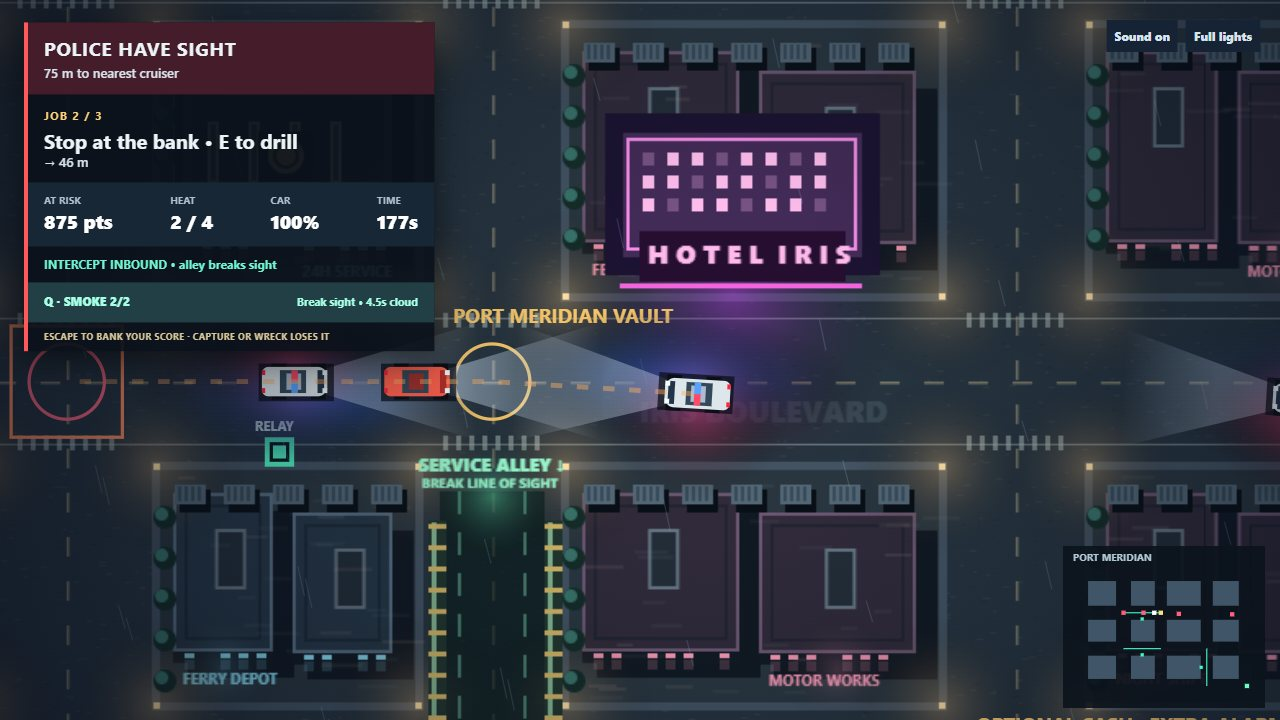
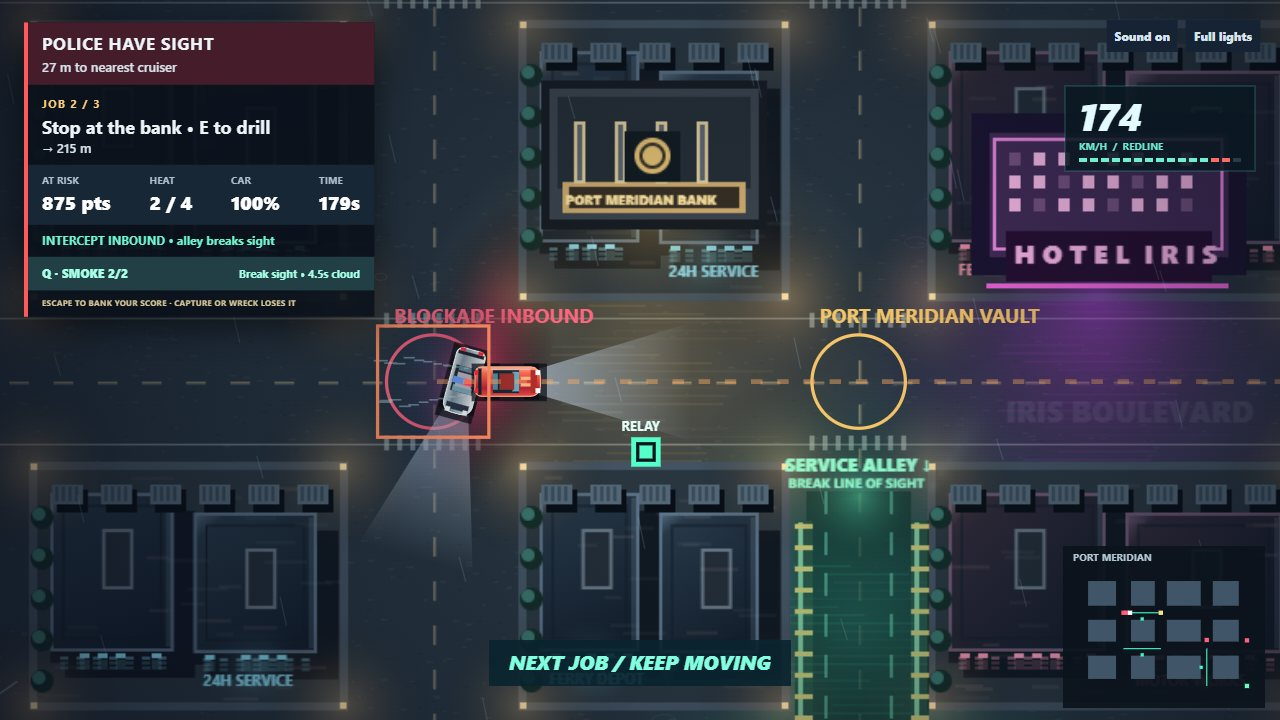
Add wet-city lighting, motion effects and cinematic chase capture

diff --git a/game/src/cinematic.js b/game/src/cinematic.js
@@ -1,0 +1,69 @@
+// Original Canvas effects. Simulation-time animation stays still when paused.
+const Cinematic = (() => {
+  let tracks=[],last=null,runTime=-1,event=null,previousStage=0,previousSmoke=0;
+  function tick(run){
+    if(run.time<runTime){tracks=[];last=null;event=null;previousStage=0;previousSmoke=0;}runTime=run.time;
+    if(run.jobs.stage!==previousStage){event={text:run.jobs.stage===3?'FINAL RUN / REACH THE DOCKS':'NEXT JOB / KEEP MOVING',time:run.time};previousStage=run.jobs.stage;}
+    if((run.smoke?.used||0)>previousSmoke){previousSmoke=run.smoke.used;event={text:'SMOKE DEPLOYED / CHANGE COURSE',time:run.time};}
+    const c=run.car,speed=Math.hypot(c.vx,c.vy);
+    const slip=Math.abs(-c.vx*Math.sin(c.angle)+c.vy*Math.cos(c.angle));
+    if(last&&speed>60&&(c.braking||slip>30)){
+      for(const side of [-1,1])tracks.push({x:last.x-Math.sin(last.angle)*side*8,y:last.y+Math.cos(last.angle)*side*8,
+        tx:c.x-Math.sin(c.angle)*side*8,ty:c.y+Math.cos(c.angle)*side*8,t:run.time});
+    }
+    tracks=tracks.filter(t=>run.time-t.t<7).slice(-420);last={...c};
+  }
+  function streets(ctx,time){
+    ctx.save();
+    ctx.beginPath();ctx.rect(78,81,1268,878);for(const b of City.blocks)ctx.rect(b.x,b.y,b.right-b.x,b.bottom-b.y);ctx.clip('evenodd');
+    // Pools of coloured light break across wet asphalt, never over the roofs.
+    for(const lamp of [{x:840,y:385,c:'213,72,242'},{x:565,y:386,c:'255,193,95'},{x:690,y:545,c:'65,240,191'},{x:1275,y:905,c:'58,185,241'}]){
+      const glow=ctx.createRadialGradient(lamp.x,lamp.y,0,lamp.x,lamp.y,150);
+      glow.addColorStop(0,`rgba(${lamp.c},.24)`);glow.addColorStop(1,`rgba(${lamp.c},0)`);ctx.fillStyle=glow;ctx.fillRect(lamp.x-150,lamp.y-150,300,300);
+      for(let i=0;i<23;i++){const y=lamp.y-33+i*5,x=lamp.x+Math.sin(i*7.13)*25;
+        ctx.fillStyle=`rgba(${lamp.c},${.025+.06*(1+Math.sin(time*.9+i))*0.5})`;ctx.fillRect(x-40,y,35+(i*17)%70,1.5);}
+    }
+    for(const t of tracks){ctx.strokeStyle=`rgba(2,8,15,${.5*(1-(runTime-t.t)/7)})`;ctx.lineWidth=3;ctx.beginPath();ctx.moveTo(t.x,t.y);ctx.lineTo(t.tx,t.ty);ctx.stroke();}
+    for(let i=0;i<30;i++){
+      const x=90+(i*173)%1230,y=100+(i*271)%820,age=(time*.8+i*.37)%1;
+      if(City.wall(x,y,1))continue;
+      ctx.strokeStyle=`rgba(143,208,230,${(1-age)*.16})`;ctx.lineWidth=.7;ctx.beginPath();ctx.ellipse(x,y,age*10+1,age*4+1,0,0,Math.PI*2);ctx.stroke();
+    }
+    ctx.restore();
+  }
+  function steam(ctx,time){
+    ctx.save();
+    for(const vent of [{x:735,y:465},{x:1070,y:680},{x:385,y:185}]){
+      for(let i=0;i<7;i++){const age=(time*.35+i/7)%1,x=vent.x+age*35,y=vent.y-age*55,r=9+age*20;
+        const g=ctx.createRadialGradient(x,y,0,x,y,r);g.addColorStop(0,`rgba(157,199,212,${(1-age)*.1})`);g.addColorStop(1,'transparent');ctx.fillStyle=g;ctx.fillRect(x-r,y-r,r*2,r*2);}
+    }ctx.restore();
+  }
+  function screen(ctx,w,h,run,p,reduced){
+    const speed=Math.hypot(run.car.vx,run.car.vy),strength=Math.max(0,(speed-150)/210);
+    ctx.save();
+    if(!reduced&&strength>0){
+      ctx.lineWidth=1;ctx.strokeStyle=`rgba(166,226,247,${strength*.28})`;
+      for(let i=0;i<28;i++){
+        const a=i*2.399,phase=(run.time*1.7+i*.173)%1,r=.65+phase*.3;
+        const x=w*.5+Math.cos(a)*w*r,y=h*.5+Math.sin(a)*h*r;
+        ctx.beginPath();ctx.moveTo(x,y);ctx.lineTo(x+Math.cos(a)*60*strength,y+Math.sin(a)*45*strength);ctx.stroke();
+      }
+    }
+    const danger=Math.max(p.contact/.87,run.impact>0?run.impact*.65:0);
+    if(danger>.02){const g=ctx.createRadialGradient(w/2,h/2,h*.25,w/2,h/2,w*.65);g.addColorStop(0,'transparent');g.addColorStop(1,`rgba(255,46,62,${Math.min(.45,danger*.5)})`);ctx.fillStyle=g;ctx.fillRect(0,0,w,h);}
+    if(event&&run.time-event.time<2.2){
+      const age=run.time-event.time;ctx.globalAlpha=Math.min(1,age*5,(2.2-age)*3);
+      ctx.font='italic 900 20px system-ui';const width=ctx.measureText(event.text).width;
+      ctx.fillStyle='#09232ee8';ctx.fillRect(w/2-width/2-20,h-80,width+40,46);
+      ctx.fillStyle='#83ffe0';ctx.fillText(event.text,w/2-width/2,h-50);ctx.globalAlpha=1;
+    }
+    // Instrument cluster remains anchored while the city moves.
+    const x=w-215,y=86;
+    ctx.fillStyle='#091821df';ctx.fillRect(x,y,190,85);ctx.strokeStyle='#5ee5d24d';ctx.strokeRect(x,y,190,85);
+    ctx.fillStyle='#e3fbff';ctx.font='italic 900 39px system-ui';ctx.fillText(String(Math.round(speed*.55)).padStart(3,'0'),x+14,y+45);
+    ctx.font='bold 10px system-ui';ctx.fillStyle='#6fe9d2';ctx.fillText('KM/H  /  REDLINE',x+14,y+64);
+    for(let i=0;i<15;i++){ctx.fillStyle=i<speed/360*15?(i>11?'#ff6a65':'#70efd2'):'#273d48';ctx.fillRect(x+14+i*11,y+72,8,4);}
+    ctx.restore();
+  }
+  return {tick,streets,steam,screen};
+})();

diff --git a/game/src/hud.js b/game/src/hud.js
@@ -4,8 +4,8 @@ const ChaseHUD = (() => {
     const jobs = state.jobs, car = state.car;
     const stage = jobs?.stage || 0;
     const objectives = ['Intercept the rolling pickup', 'Stop at the bank • E to drill', 'Match the courier • hold E', 'Reach the dock canopy'];
-    const threat = !state.collected ? 'THE JOB IS ON' : pursuit.seen ? 'POLICE HAVE SIGHT' : 'BREAKING CONTACT';
-    const detail = pursuit.contact > .1 ? `CAPTURE ${Math.min(100,Math.round(pursuit.contact/.87*100))}% • drive away now` : !state.collected ? 'Three jobs. One getaway.' : pursuit.seen ? `${Math.round(pursuit.nearestRange)} m to nearest cruiser` : `Stay hidden ${Math.max(0,Pursuit.clearDuration(state)-pursuit.lost).toFixed(1)} s`;
+    const threat = !state.collected ? 'THE JOB IS ON' : pursuit.seen ? 'POLICE HAVE SIGHT' : pursuit.lost>=Pursuit.clearDuration(state)?'CONTACT LOST':'BREAKING CONTACT';
+    const detail = pursuit.contact > .1 ? `CAPTURE ${Math.min(100,Math.round(pursuit.contact/.87*100))}% • drive away now` : !state.collected ? 'Three jobs. One getaway.' : pursuit.seen ? `${Math.round(pursuit.nearestRange)} m to nearest cruiser` : pursuit.lost>=Pursuit.clearDuration(state)?'Patrols searching / keep moving':`Stay hidden ${Math.max(0,Pursuit.clearDuration(state)-pursuit.lost).toFixed(1)} s`;
     const relay = Traffic.near(state);
     const route = state.traffic.phase === 'closed' ? 'GATE CLOSED • police must reroute' : relay ? `SHIFT • close ${relay.name} • ${state.traffic.charges} left` : pursuit.block ? 'ROADBLOCK SET • change streets' : pursuit.intercept ? 'INTERCEPT INBOUND • alley breaks sight' : 'Boulevard: speed / Alley: cover';
     const html = `<div class="chase-threat">${threat}<span>${detail}</span></div><div class="chase-objective"><small>JOB ${Math.min(stage+1,3)} / 3 ${stage===3?'• EXTRACT':''}</small>${objectives[stage]}<span>${arrow} ${range} m${stage===2?' • '+Math.round(jobs.transfer/.7*100)+'% transferred':''}</span></div><div class="chase-stats"><span>AT RISK<strong>${Math.round((jobs?.haul||0)*(jobs?.multiplier||1)).toLocaleString()} pts</strong></span><span>HEAT<strong>${jobs?.heat||0} / 4</strong></span><span>CAR<strong>${Math.max(0,100-Math.round(car.damage))}%</strong></span><span>TIME<strong>${Math.ceil(Math.max(0,180-state.time))}s</strong></span></div><div class="chase-route">${route}</div><div class="ability-bar"><b>Q · SMOKE ${state.smoke?.charges??2}/2</b><span>${state.smoke?.cooldown>0?state.smoke.cooldown.toFixed(1)+"s cooldown":"Break sight • 4.5s cloud"}</span></div><div class="win-rule">ESCAPE TO BANK YOUR SCORE · CAPTURE OR WRECK LOSES IT</div>`;

diff --git a/game/src/art.js b/game/src/art.js
@@ -56,7 +56,10 @@ const Art = (() => {
         fill(c, x + 9, y + 11, bw + 4, bh + 5, '#0a101acc');
         fill(c, x, y, bw, bh + 7, '#111923');
         fill(c, x, y, bw, bh, d.trim);
-        fill(c, x + 2, y + 2, bw - 4, bh - 4, d.roof);
+        const roof=c.createLinearGradient(x,y,x+bw,y+bh);roof.addColorStop(0,d.trim);roof.addColorStop(.12,d.roof);roof.addColorStop(1,'#111c2a');
+        fill(c, x + 2, y + 2, bw - 4, bh - 4, roof);
+        fill(c,x+bw-5,y+3,3,bh-6,'#a5d2e526');
+        for(let floor=0;floor<3;floor++)for(let pane=6;pane<bw-8;pane+=10){fill(c,x+pane,y+bh+3+floor*3,5,2,d.glass+(floor===0?'70':'38'));}
         c.strokeStyle = '#131e2a';
         c.strokeRect(x + 8, y + 8, bw - 16, bh - 16);
         fill(c, x + bw * .42, y + 22, 19, 37, '#647481');
@@ -235,13 +238,20 @@ const Art = (() => {
       atmosphere(ctx, 0, -10, 57, flash ? '#ff345c70' : '#ff345c24');
       atmosphere(ctx, 0, 10, 57, flash ? '#337aff24' : '#337aff79');
     }
+    if(!police){atmosphere(ctx,-20,0,32,c.braking?'#ff322c8a':'#ff402c30');}
     fill(ctx, -22, -11, 46, 23, '#090e16bb');
     for (const x of [-14, 10]) for (const y of [-11, 7]) fill(ctx, x, y, 9, 4, '#0b0e16');
-    ctx.fillStyle = police ? '#dde7eb' : courier ? '#e2b94f' : '#ff604c';
+    const paint=ctx.createLinearGradient(0,-10,0,10);
+    paint.addColorStop(0,police?'#f7ffff':courier?'#fff1ad':'#ffb899');paint.addColorStop(.25,police?'#bfdae2':courier?'#ebc151':'#ff684e');paint.addColorStop(.7,police?'#718e9e':courier?'#b28827':'#b72236');paint.addColorStop(1,police?'#d6eaf0':courier?'#edc65f':'#f45747');ctx.fillStyle=paint;
     ctx.beginPath();
     ctx.roundRect(-20, -9, 40, 18, [4, 6, 6, 4]);
     ctx.fill();
-    fill(ctx, -9, -7, 16, 14, '#33495a');
+    ctx.strokeStyle=police?'#e7ffff':'#ffb38d';ctx.lineWidth=.7;ctx.stroke();
+    fill(ctx, -9, -7, 16, 14, '#122937');
+    fill(ctx, 3, -6, 4, 12, '#6aadc2');fill(ctx,-9,-5,3,10,'#4f899c');
+    fill(ctx,-18,-8,2,16,'#13212a');
+    if(!police&&!courier){fill(ctx,8,-3,10,2,'#ffb987');fill(ctx,8,1,10,2,'#ffb987');}
+    ctx.fillStyle='#e8fbff66';ctx.fillRect(-13,-8,27,1);
     fill(ctx, -5, -5, 9, 10, police ? '#adbbce' : courier ? '#5c4c24' : '#9c302c');
     fill(ctx, 14, -7, 4, 14, police ? '#243448' : '#b52e28');
     for (const y of [-7, 4]) {

diff --git a/game/src/play.js b/game/src/play.js
@@ -246,8 +246,10 @@ function render() {
   const { zoom } = view;
   ctx.save();
   ctx.translate(w * (title ? .72 : .5) - view.x * zoom, h * .53 - view.y * zoom);
+  if(!title&&!reducedFlash&&state.impact>0)ctx.translate(Math.sin(time*81)*state.impact*5,Math.cos(time*67)*state.impact*4);
   ctx.scale(zoom, zoom);
   ctx.drawImage(cityArt, 0, 0);
+  Cinematic.streets(ctx,time);
   if (!title) drawTraffic();
   Art.weather(ctx, c, time, w / zoom, h / zoom);
   if (!title) marker(targetForRun(), targetLabel(), state.jobs?.stage===2?'#6be7ff':'#f4c468');
@@ -277,6 +279,7 @@ function render() {
   if(!title&&state.jobs?.stage===2)Art.car(ctx,state.jobs.courier,false,time,true);
   Art.spray(ctx, c, time);
   Art.car(ctx, c, false, time);
+  Cinematic.steam(ctx,time);
   if(!title && state.smoke){Smoke.draw(ctx,state);StreetDetail.motion(ctx,state,pursuit,time);}
   ctx.restore();
   const destination = targetForRun();
@@ -288,7 +291,7 @@ function render() {
   shade.addColorStop(0, '#0b142000');
   shade.addColorStop(1, '#050916a8');
   rect(0, 0, w, h, shade);
-  if (mode !== 'title') Art.minimap(ctx, w, h, state, pursuit);
+  if (mode !== 'title') {Cinematic.screen(ctx,w,h,state,pursuit,reducedFlash);Art.minimap(ctx, w, h, state, pursuit);}
   if (state.sweep >= 0 && !state.bonus) {
     const x = w / 2 - 105;
     const y = h - 66;
@@ -323,6 +326,7 @@ function frame(now) {
       interact = false;
       Traffic.tick(state.traffic, state, pursuit);
       Smoke.tick(state,1/60);
+      Cinematic.tick(state);
       Pursuit.tick(pursuit, state);
       if (pursuit.result) finish();
     }

diff --git a/game/style.css b/game/style.css
@@ -9,3 +9,5 @@ section{max-height:94vh;overflow:auto}
 .eyebrow{color:#74f4d2;letter-spacing:.22em;font-size:11px;font-weight:800;margin-bottom:24px}.mission-grid{display:grid;grid-template-columns:repeat(3,1fr);gap:8px;margin:20px 0}.mission-grid>div{padding:12px;background:#1c303b;border-top:2px solid #6be7c5}.mission-grid b{display:block;color:#ffcf83;font-size:12px}.mission-grid span{display:block;font-size:12px;margin-top:8px;color:#c2d2db}.contract-goal{font-size:12px;color:#cfdfdf;margin:18px 0;line-height:1.7}.score-hero{font-size:58px;font-weight:900;color:#78f5cc;line-height:1.1;margin:16px 0}.score-hero small{margin:0;font-size:11px;letter-spacing:.2em}.ability-bar{display:flex;justify-content:space-between;padding:11px 16px;background:#233f46;color:#a7ffe5;font-size:12px}.ability-bar span{font-size:11px}.win-rule{font-size:9px;letter-spacing:.04em;padding:8px 16px;color:#d5c597}section{box-shadow:0 24px 100px #000b;border:1px solid #53747c;border-left:4px solid #ff595b;background:linear-gradient(130deg,#0c1724f5,#10212af0)}
 
 #brief[data-mode=results] h1{font-size:76px;margin-bottom:16px}#brief[data-mode=results] p{font-size:12px;line-height:1.6}#brief[data-mode=results] .eyebrow{margin-bottom:18px}#brief[data-mode=results] .score-hero{font-size:48px;margin:12px 0}#brief[data-mode=results] small{margin-top:12px}
+
+#hud{width:350px}.chase-threat{padding:9px 14px;font-size:17px}.chase-objective{padding:9px 14px;font-size:18px}.chase-stats{padding:8px 14px}.chase-route{padding:7px 14px}.ability-bar{padding:8px 14px}.win-rule{padding:7px 14px;font-size:8px}

diff --git a/game/index.html b/game/index.html
@@ -12,6 +12,7 @@
 <script defer src="src/pursuit.js"></script>
 <script defer src="src/smoke.js"></script>
 <script defer src="src/street-detail.js"></script>
+<script defer src="src/cinematic.js"></script>
 <script defer src="src/art.js"></script>
 <script defer src="src/siren.js"></script>
 <script defer src="src/contracts.js"></script>

diff --git a/docs/IMPROVEMENT_REPORT.md b/docs/IMPROVEMENT_REPORT.md
@@ -40,3 +40,10 @@ Searches keep their destination until arrival, pause briefly to inspect it and t
 Validation: 27 simulation tests pass, including progressive acceleration, bounded rotation, no position jumps, street containment, persistent search orders, line of sight, reacquisition, capture, road closures and smoke. Both offline Chrome sizes passed the full escape sequence. Optional-alarm capture passed at 20.1 seconds. Tests now allow physical acceleration time for interceptor arrival and systematic search time for reacquisition; success conditions remain mandatory. A corner-clipping defect and overly aggressive initial acceleration were found during testing and corrected.
 
 Final regression count: 28 passing tests. Relay activation and its visible prompt now share the same range; the upgrade test checks the new base boundary and its extended range. Normal-speed tests accept and explicitly report a safety refusal only when a vehicle occupies the gate lane; deterministic runs still require a successful closure. The simulation remains road-guided rather than a full vehicle dynamics model.
+## Cinematic graphics revision
+
+Added original offline Canvas effects: pooled neon reflections broken across wet roads, animated rain ripples and steam, persistent fading skid trails, metallic car shading and glass highlights, brake-light bloom, layered roof shading and facade lights, high-speed edge streaks, bounded impact shake and damage vignette, speedometer, and short mission/smoke event banners. The HUD is narrower to expose more of the city. Steady lights also disables speed streaks and impact shake. All trails are bounded to 420 segments and seven seconds; effects use simulation time and pause with play.
+
+The cover is a real normal-speed Chrome capture during a 174 km/h pass, with a nearby cruiser, bank and hotel visible. No image compositing or gameplay-state manipulation was used. The review contact sheet only resizes those real captures.
+
+Validation: both offline Chrome sizes passed full gameplay; visible normal-speed Chrome passed and produced the final screenshots. All 28 simulation tests passed. A short 180-frame 1920x1080 Chrome sample recorded median frame interval 16.7 ms and p95 17 ms, with no page errors; this is a local sample, not a performance guarantee for other hardware. The Steady lights toggle was checked. Canvas keeps rendering offline; Playwright/Chrome automate capture, and Pillow produces the review sheet. No new external art, runtime packages or licenses were introduced.
